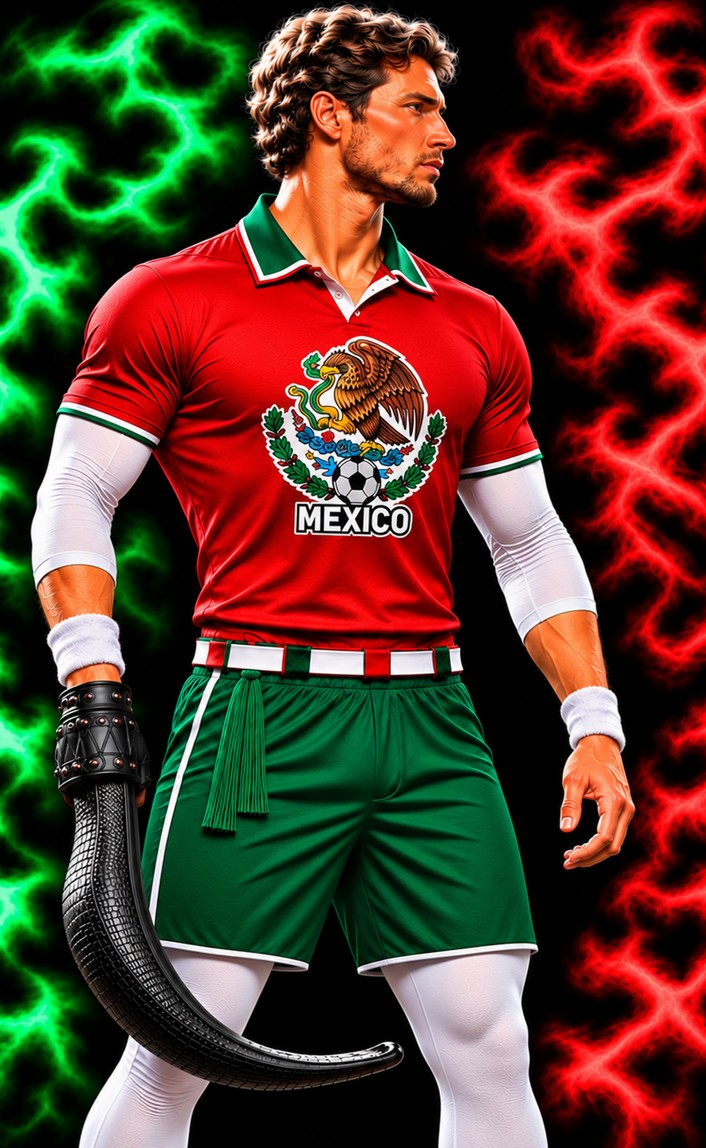
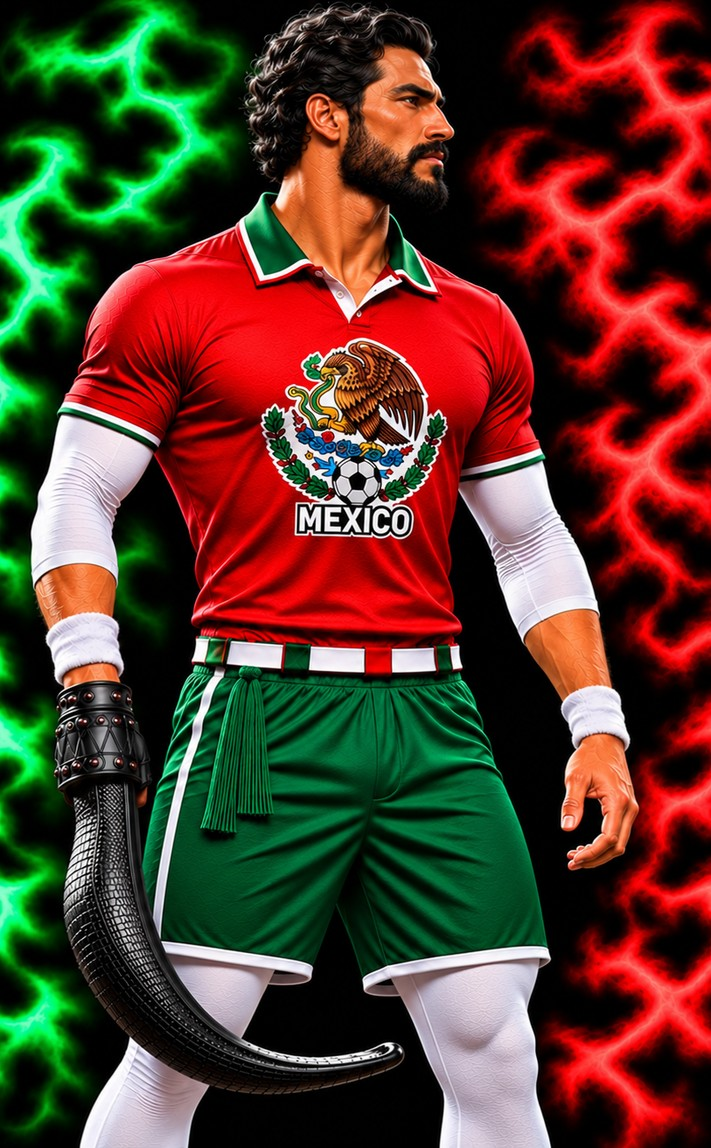
World Cup: new France, Euskadi and Mexico pictures
Claude-Session: https://claude.ai/code/session_01RXYkimbn35SjoihCfai7fS

diff --git a/index.html b/index.html
@@ -18,7 +18,7 @@ img { max-width: 100%; }
 [hidden] { display: none !important; }
 </style>
 <script>
-window.FL_BUILD = "20261124220719";
+window.FL_BUILD = "20261124221827";
 window.FL_RELAY = "wss://relay-production-5e78c1a2.up.railway.app/ws";
 window.FL_STATS = "https://relay-production-5e78c1a2.up.railway.app/t";
 window.FL_FEEDBACK = "https://relay-production-5e78c1a2.up.railway.app/feedback";
@@ -2711,7 +2711,7 @@ window.FLFeedback = (function () {
   /* ---------- matchup poster (preview build only): a still court, a Tap to Play button, then the poster while the match loads ---------- */
   var POSTER = !!window.FL_POSTER;
   if (POSTER) document.body.classList.add('poster-on');
-  var POSTERS = { '7m': 'poster-7-m.jpg?v=13', '8m': 'poster-8-m.jpg?v=13', '9m': 'poster-9-m.jpg?v=13', '10m': 'poster-10-m.jpg?v=13', '11m': 'poster-11-m.jpg?v=13', '0m': 'poster-0-m.jpg?v=13', '1m': 'poster-1-m.jpg?v=13', '2m': 'poster-2-m.jpg?v=13', '3m': 'poster-3-m.jpg?v=13', '4m': 'poster-4-m.jpg?v=13', '5m': 'poster-5-m.jpg?v=13', '0w': 'poster-0-w.jpg?v=13', '1w': 'poster-1-w.jpg?v=13', '2w': 'poster-2-w.jpg?v=13', '3w': 'poster-3-w.jpg?v=13', '4w': 'poster-4-w.jpg?v=13', '5w': 'poster-5-w.jpg?v=13', '6m': 'poster-6-m.jpg?v=13', '6w': 'poster-6-w.jpg?v=13' };   // roster index + m/w. Each half faces right; missing ones fall back to the team badge
+  var POSTERS = { '7m': 'poster-7-m.jpg?v=14', '8m': 'poster-8-m.jpg?v=14', '9m': 'poster-9-m.jpg?v=14', '10m': 'poster-10-m.jpg?v=14', '11m': 'poster-11-m.jpg?v=14', '0m': 'poster-0-m.jpg?v=14', '1m': 'poster-1-m.jpg?v=14', '2m': 'poster-2-m.jpg?v=14', '3m': 'poster-3-m.jpg?v=14', '4m': 'poster-4-m.jpg?v=14', '5m': 'poster-5-m.jpg?v=14', '0w': 'poster-0-w.jpg?v=14', '1w': 'poster-1-w.jpg?v=14', '2w': 'poster-2-w.jpg?v=14', '3w': 'poster-3-w.jpg?v=14', '4w': 'poster-4-w.jpg?v=14', '5w': 'poster-5-w.jpg?v=14', '6m': 'poster-6-m.jpg?v=14', '6w': 'poster-6-w.jpg?v=14' };   // roster index + m/w. Each half faces right; missing ones fall back to the team badge
   function posterHalf(el, t, side) {                              // mixed: a man on the left, a woman on the right
     var r = ROSTER[t], wt = whoOf(side), g = wt === 'women' || (wt === 'mixed' && side) ? 'w' : 'm', src = POSTERS[t + g] || null;   // no picture for that side yet: its badge or flag
     el.innerHTML = ''; el.style.backgroundImage = '';
